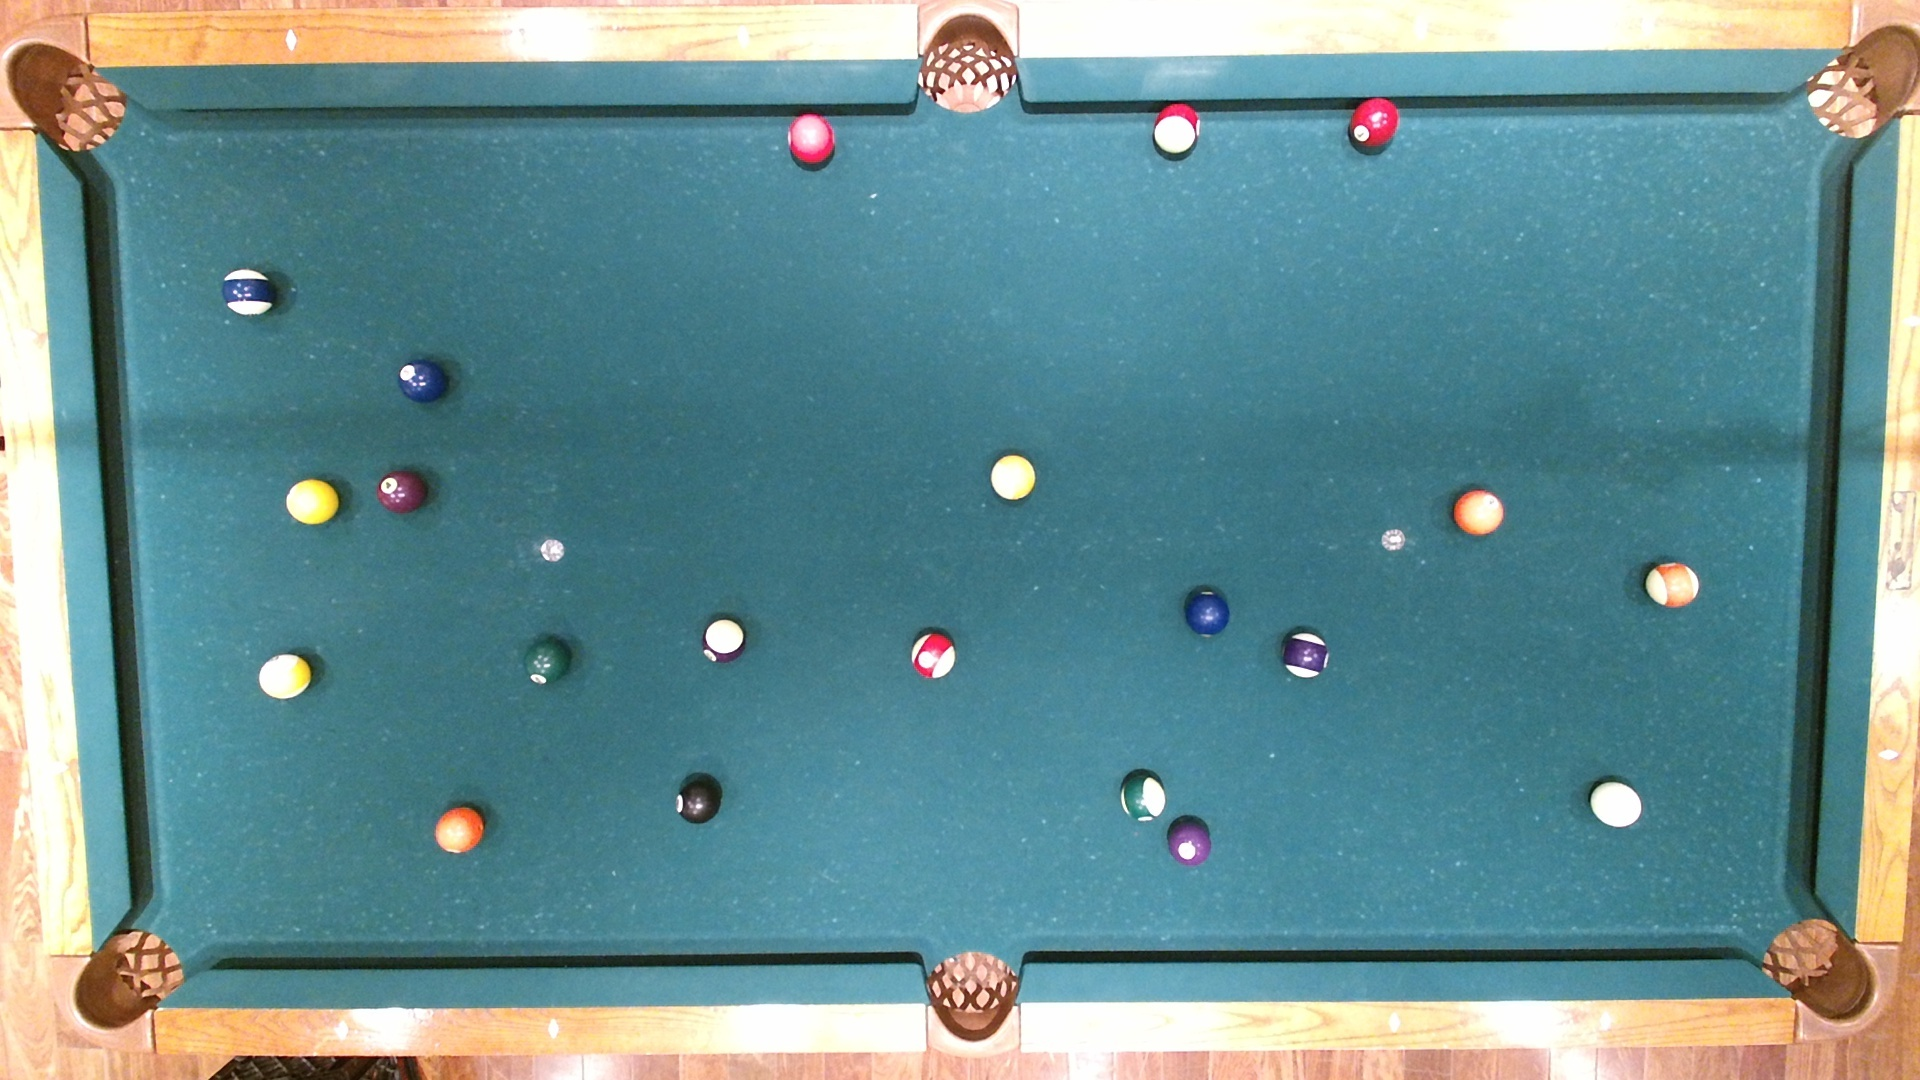
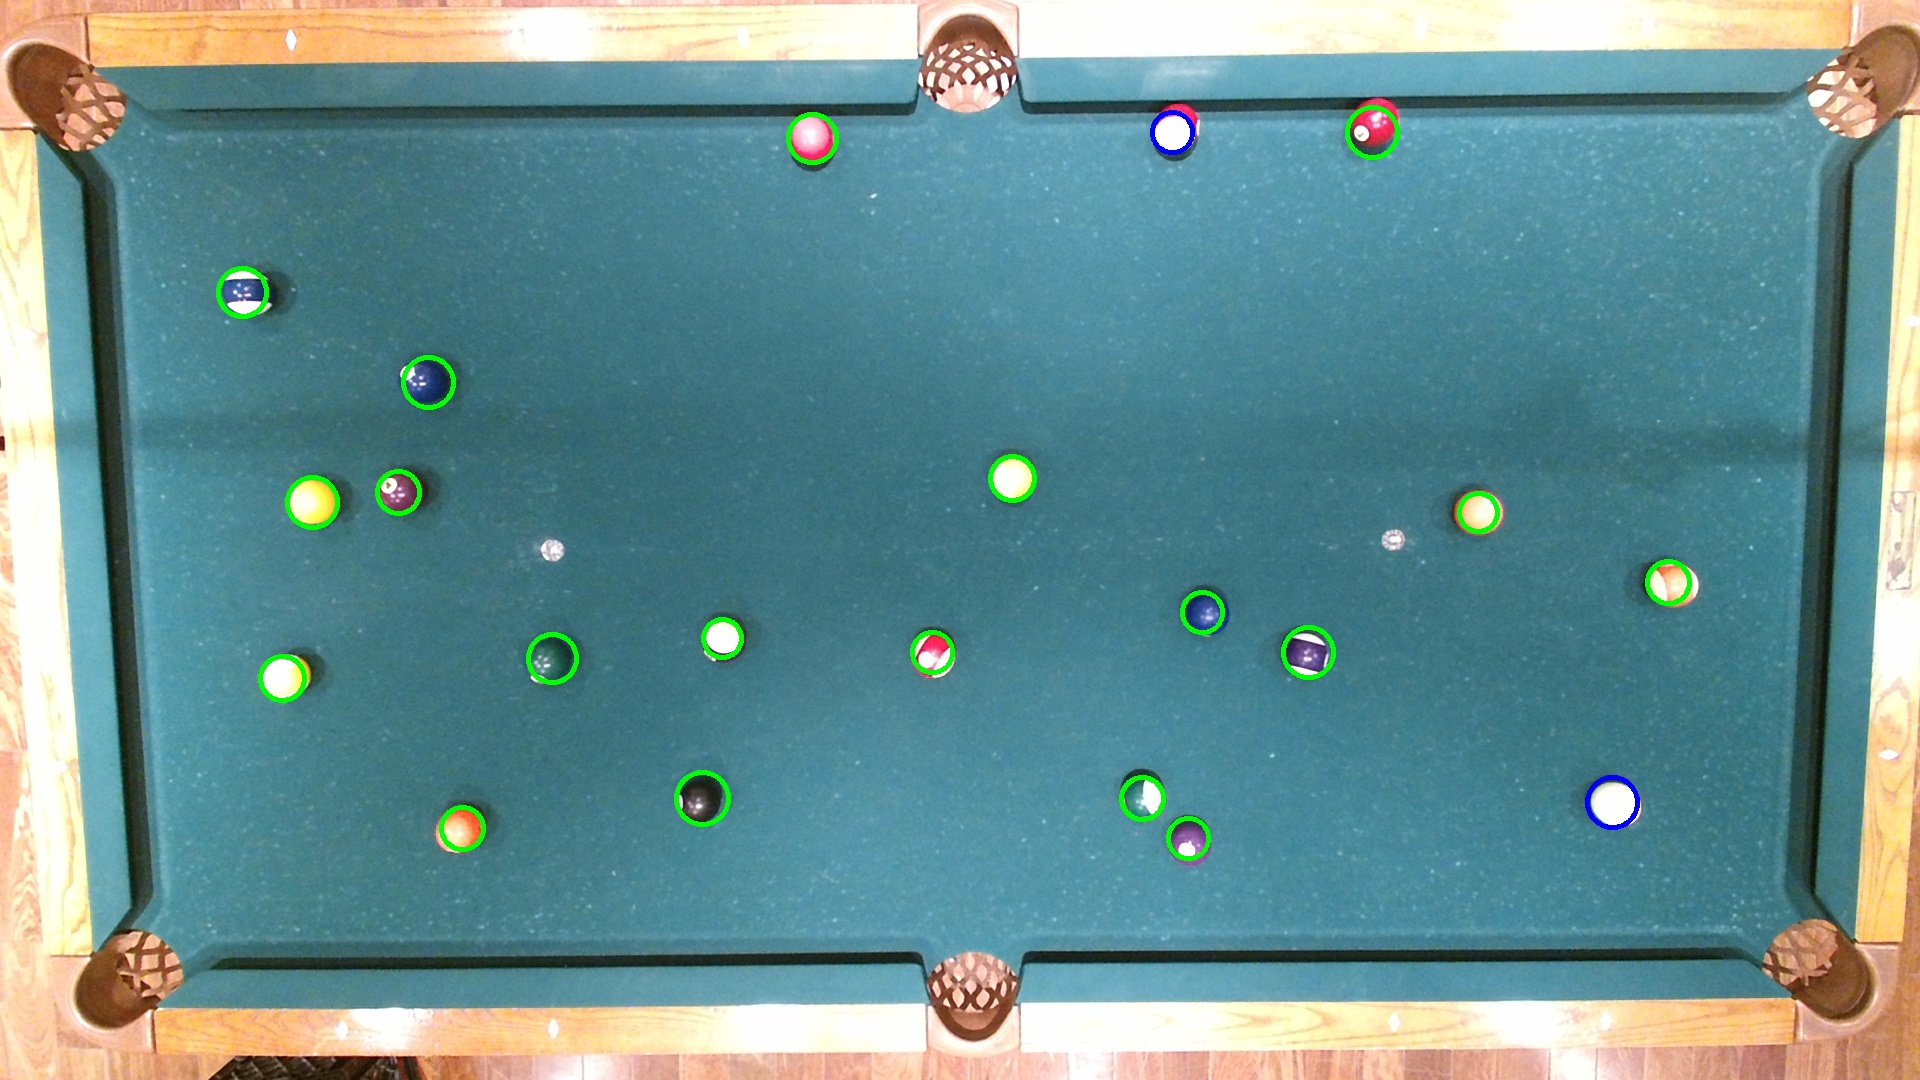
changes

diff --git a/masked_background.py b/masked_background.py
@@ -109,7 +109,54 @@ def find_white_ball(frame, balls):
 		
 	return [i[1:] for i in total_rgb]
 
-def find_pool_table(frame, balls, ctl, cbr):
+def find_pool_table(frame2, balls, ctl, cbr):
+
+
+	pixl = cbr[0] - ctl[0]
+	pixw = cbr[1] - ctl[1]
+
+	pooll = 2.236
+	poolw = 1.116
+	
+	l = pixl/pooll
+	w = pixw/poolw
+
+
+	# ctl = (75,103)
+	# ctr = (1859,103)
+	# cbl = (131,965)
+	# cbr = (1813,961)
+	
+
+	# avgx = ctl[0]+ctr[0]+cbl[0]+cbr[0]
+	# avgx/=4
+	# avgy = ctl[1]+ctr[1]+cbl[1]+cbr[1]
+	# avgy/=4
+	# cv2.line(frame, ctl, ctr, (255, 0, 0), 4)
+	# cv2.line(frame, ctr, cbr, (255, 0, 0), 4)
+	# cv2.line(frame, cbl, cbr, (255, 0, 0), 4)
+	# cv2.line(frame, cbl, ctl, (255, 0, 0), 4)
+	frame=frame2
+	nballs=[]
+	for (x,y,r) in balls:
+		if x<cbr[0] and x>ctl[0] and y<cbr[1] and y>ctl[1]:
+			nballs.append((x,y,r))
+
+	for i in range(len(nballs)):
+		(x, y, r) = nballs[i]
+		color= (0, 255, 0)
+		if i is 0:
+			color =  ( 255, 0, 0)
+		cv2.circle(frame, (x, y), r, color, 4)
+	# for (x, y, r) in shifted_coords:
+	# 	cv2.circle(frame, int(x), int(y), int(r), (0, 255, 0), 4)
+
+	cv2.imwrite("DetectedBalls2.jpg", frame)
+
+
+	return nballs
+
+def shift(frame, balls, ctl, cbr):
 
 
 	pixl = cbr[0] - ctl[0]
@@ -137,22 +184,17 @@ def find_pool_table(frame, balls, ctl, cbr):
 	# cv2.line(frame, cbl, cbr, (255, 0, 0), 4)
 	# cv2.line(frame, cbl, ctl, (255, 0, 0), 4)
 	cv2.imwrite("OutputDetectWhite2.jpg", frame)
-	nballs=[]
 	shifted_coords=[]
 	for (x,y,r) in balls:
 		if x<cbr[0] and x>ctl[0] and y<cbr[1] and y>ctl[1]:
 			shifted_coords.append(((x-ctl[0])/l,(y-ctl[1])/w, r))
-			nballs.append((x,y,r))
-
-	for (x, y, r) in nballs:
-		cv2.circle(frame, (x, y), r, (0, 255, 0), 4)
 	# for (x, y, r) in shifted_coords:
 	# 	cv2.circle(frame, int(x), int(y), int(r), (0, 255, 0), 4)
 
 	cv2.imwrite("DetectedBalls2.jpg", frame)
 
 
-	return (frame, nballs, shifted_coords)
+	return shifted_coords
 
 def visualize(background, shifted_coords, ctl, cbr):
 
@@ -170,7 +212,11 @@ def visualize(background, shifted_coords, ctl, cbr):
 
 	print(shifted_coords)
 
-	for (nx, ny, nr) in shifted_coords:
+	for i in range(len(shifted_coords)):
+		(nx, ny, nr) = shifted_coords[i]
+		color= (0, 255, 0)
+		if i is 0:
+			color =  ( 255, 0, 0)
 		nx=float(nx)
 		ny=float(ny)
 		nr=float(nr)
@@ -179,7 +225,7 @@ def visualize(background, shifted_coords, ctl, cbr):
 		x=int(x)
 		y=int(ny*w)
 		r=int(nr*rad)
-		cv2.circle(background, (x, y), r, (0, 255, 0), 4)
+		cv2.circle(background, (x+ctl[0], y+ctl[1]), r, color, 4)
 	cv2.imwrite("visualize.jpg", background)
 
 def main():
@@ -194,11 +240,12 @@ def main():
 	(frame, masked_frame, balls) = detect_balls(background_file_name, file_name)
 	
 
-	(frame, nballs, shifted_coords) = find_pool_table(frame, balls, ctl, cbr)
+	nballs = find_pool_table(frame, balls, ctl, cbr)
 
 	#print(balls)
 	#ball_colors = detect_color(frame, balls, 25)
 	nballs = find_white_ball(frame, nballs)
+	shifted_coords = shift(frame, nballs, ctl, cbr)
 
 	with open('OutputBalls.csv', 'wb') as f:
 		writer=csv.writer(f)
